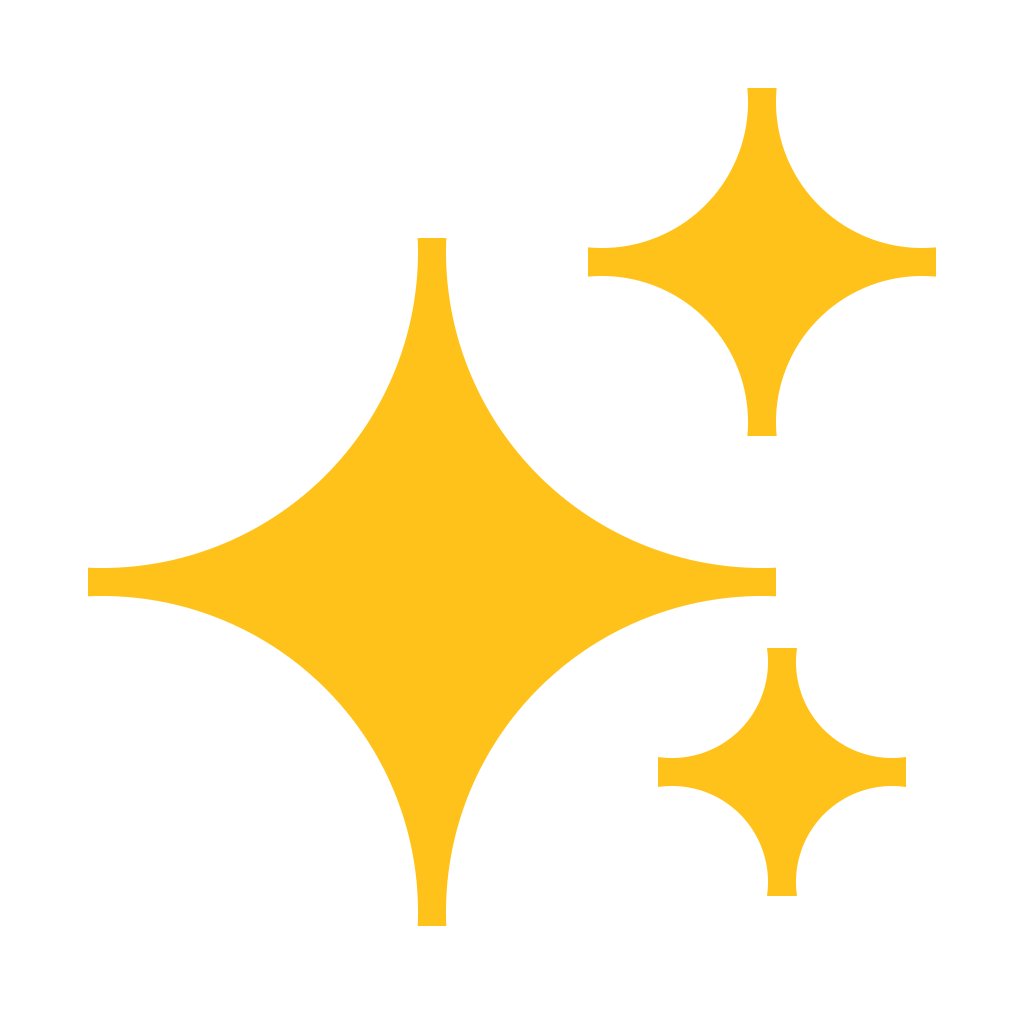
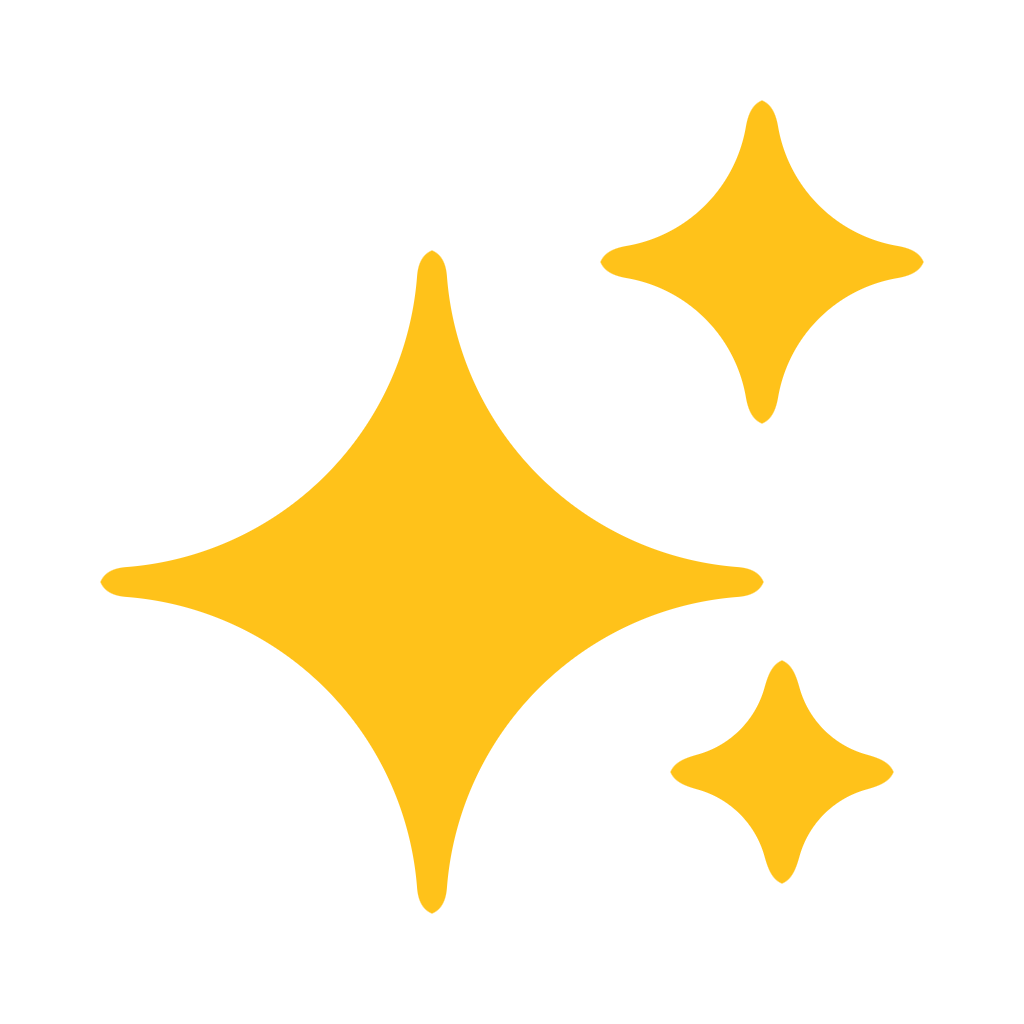
fix(library): end each sparkle's points round, not cut flat

diff --git a/scripts/gen-library.py b/scripts/gen-library.py
@@ -1207,13 +1207,23 @@ class Smooth(Shape):
 
 
 class Within(Shape):
-    """Where every part overlaps (the largest of their distances)."""
+    """Where every part overlaps (the largest of their distances); with `k`, its corners rounded over k px."""
 
-    def __init__(self, *parts):
-        self.parts = parts
+    def __init__(self, *parts, k=0.0):
+        self.parts, self.k = parts, k
 
     def __call__(self, x, y):
-        return max(p(x, y) for p in self.parts)
+        if not self.k:
+            return max(p(x, y) for p in self.parts)
+        d = None
+        for p in self.parts:  # a polynomial smooth maximum, a part at a time
+            v = p(x, y)
+            if d is None:
+                d = v
+            else:
+                h = max(self.k - abs(d - v), 0.0) / self.k
+                d = max(d, v) + h * h * self.k / 4
+        return d
 
 
 class Outside(Shape):
@@ -1372,10 +1382,10 @@ def arrow_head(tip_x, tip_y, dx, dy, length_, width_):
 
 
 def sparkle_star(cx, cy, r):
-    """A four-point sparkle: a square's middle less the four circles round its corners, its points rounded."""
+    """A four-point sparkle: all but the four circles round a square's corners, grown 14 px, then cut to a circle with
+    the cut's corners rounded, so each point ends round."""
     corners = [Outside(Circle(cx + sx * r, cy + sy * r, r)) for sx in (-1, 1) for sy in (-1, 1)]
-    parts = [Box(cx, cy, r, r, 0.0)] + corners
-    return Grown(Within(*parts), 14.0)
+    return Within(Grown(Within(*corners), 14.0), Circle(cx, cy, r + 4.0), k=28.0)
 
 
 def curved_arrow():
